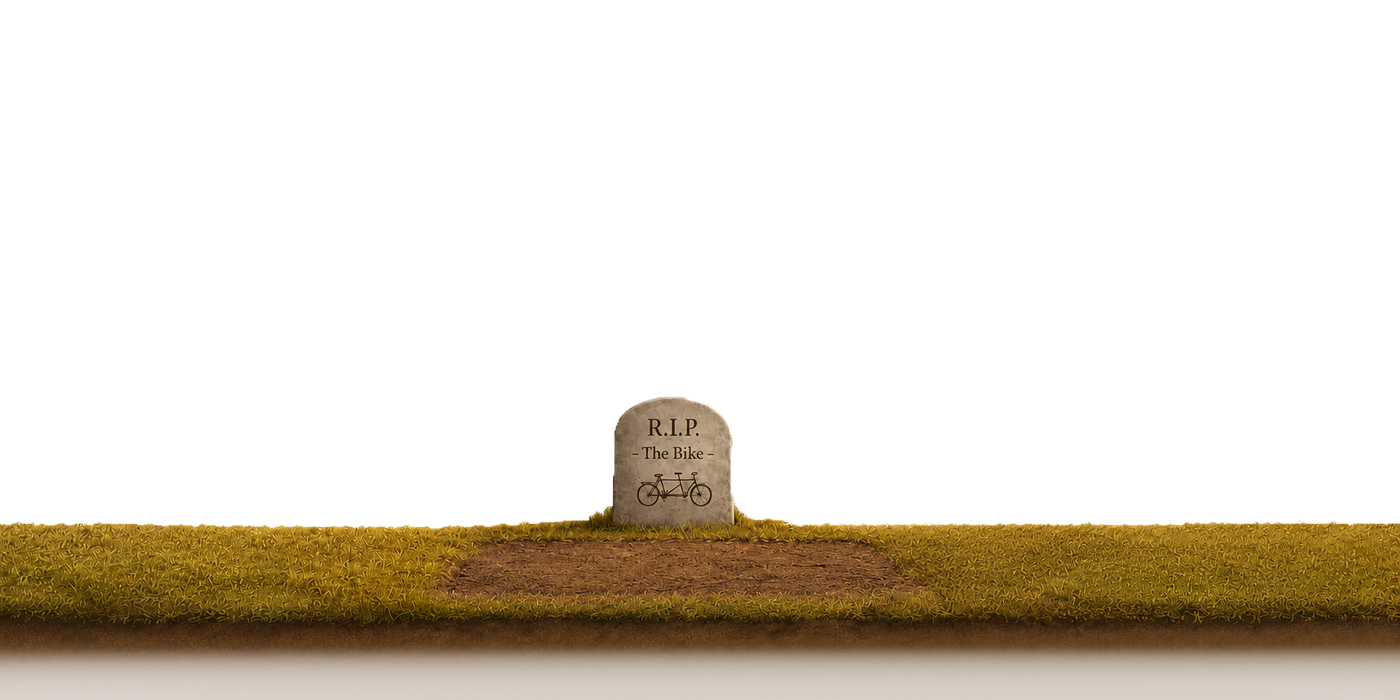
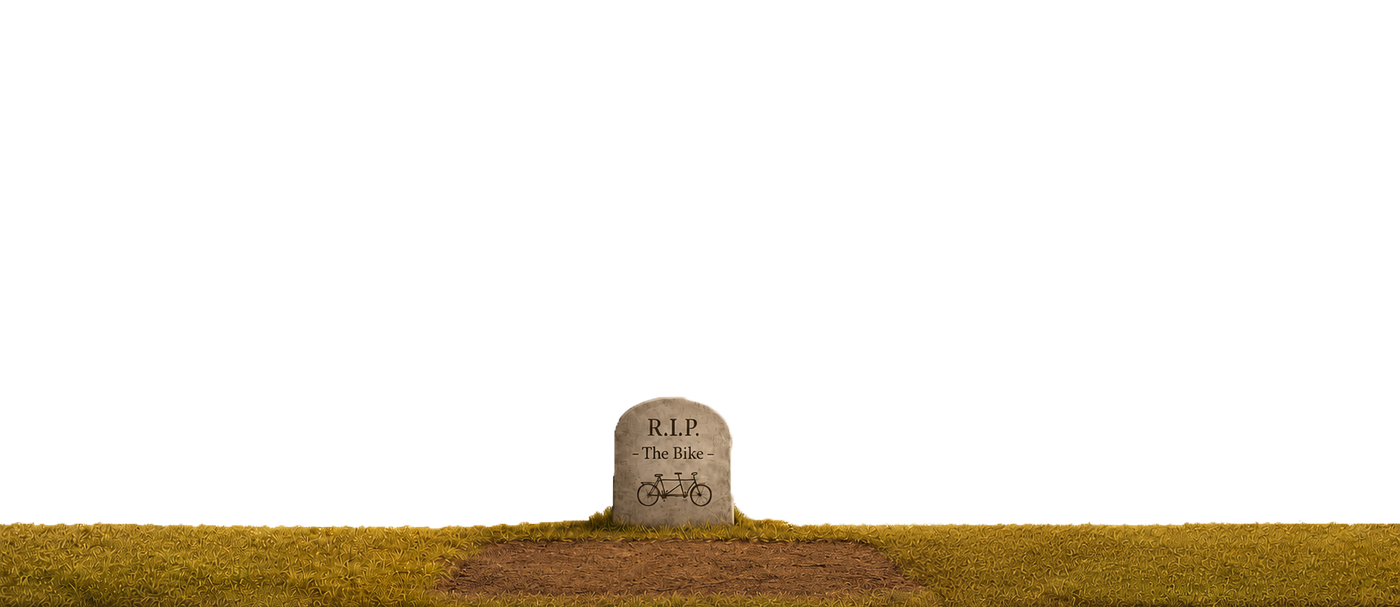
Postproduction grass images: cropped the dark shadow/fade band from the bottom of both grass images (was creating the 'strange bottom blackness' Charlie flagged). Both images now end exactly at the grass line. Padded the shorter one at top so both are 1400x607 identical dims — cross-fade doesn't shi

Changed region(s): [[0.0, 0.5634, 1.0, 1.0]]

diff --git a/building-blocks/css/style.css b/building-blocks/css/style.css
@@ -2022,9 +2022,9 @@ body {
 .dig-grass-img {
   position: absolute;
   left: 0; right: 0;
-  bottom: -40px;            /* extend into underground so image's
-                               transparent bottom fade overlaps the
-                               underground top — no visible seam. */
+  bottom: 0;                /* dark bottom shadow was cropped off both
+                               source images; grass line now sits at
+                               image bottom = underground top, no seam. */
   width: 100%;
   height: auto;
   pointer-events: none;
